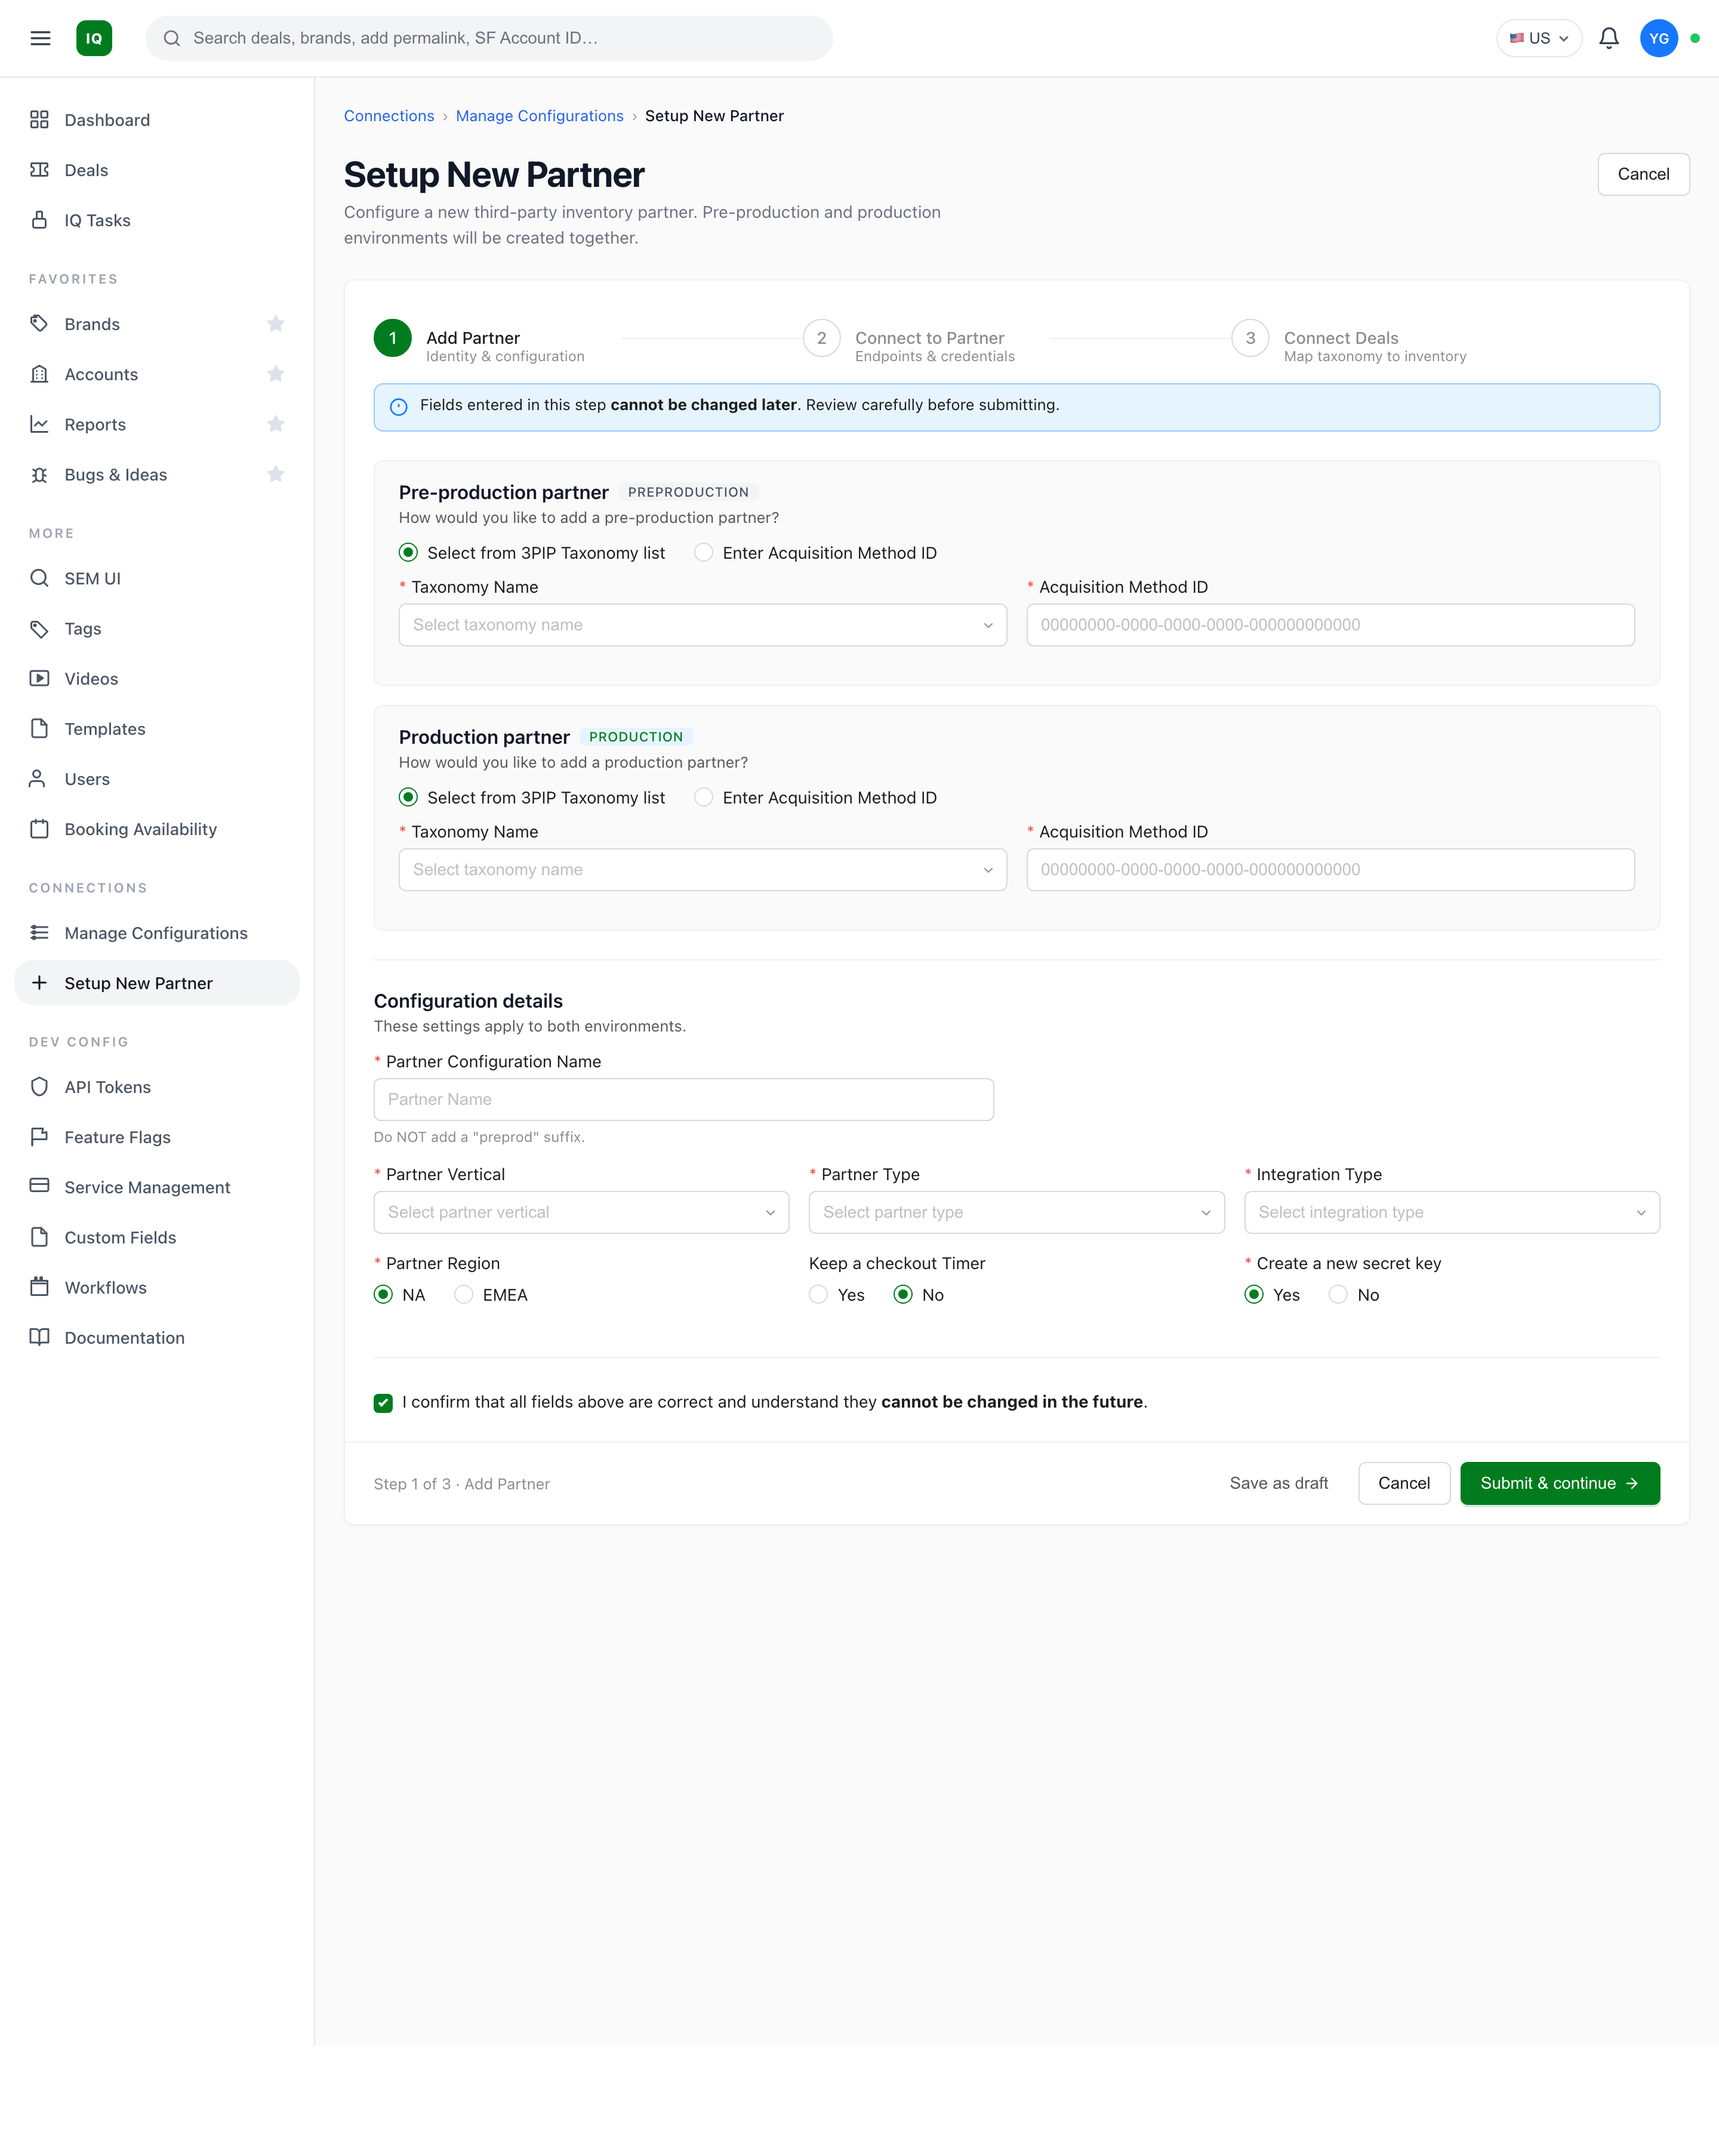
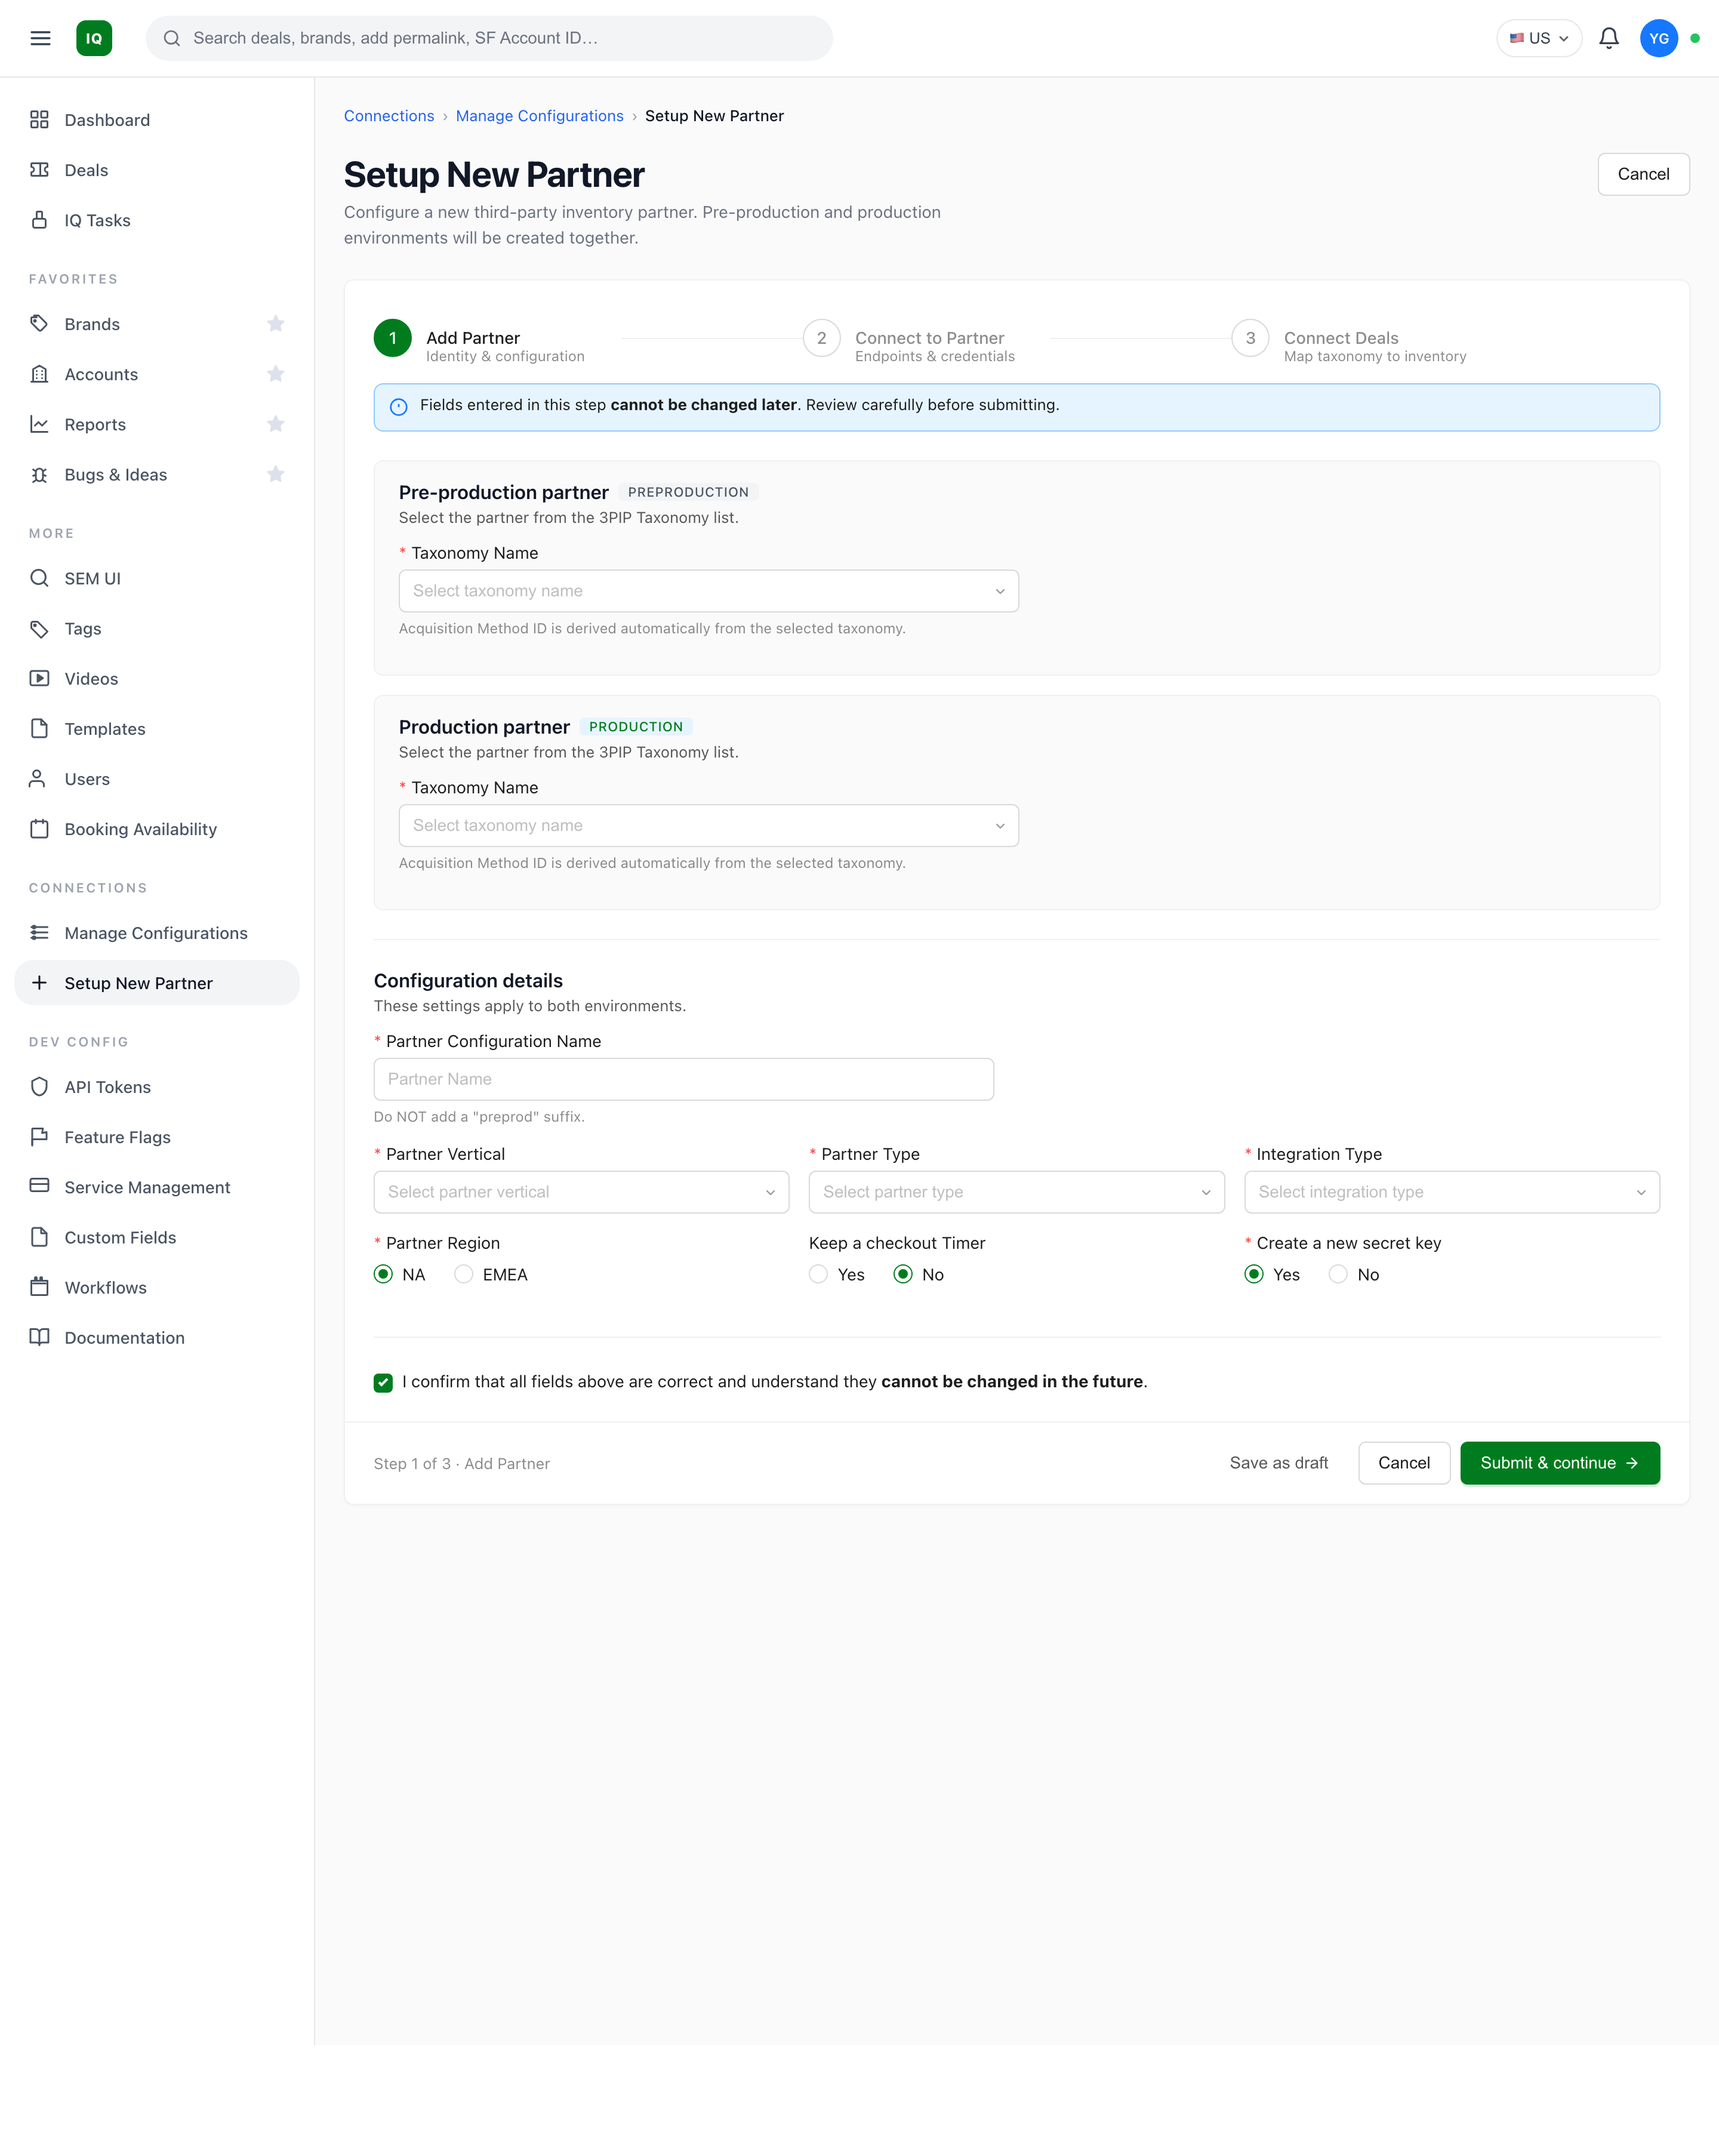
Make identity per-env via tabs; drop Acquisition Method ID radio in wizard
- Edit page: env tabs moved from inside the Connection details card up to the
  page level, so they now switch BOTH the Partner identity card and the
  Connection details card. Each env has its own Taxonomy Name, Acquisition
  Method ID, Configuration Name, etc. Identity card meta now reads
  "Production environment - set during partner creation".
- Setup wizard: removed the "Enter Acquisition Method ID" radio choice and
  its input field from both the pre-production and production blocks. Users
  now always pick from the 3PIP Taxonomy list; Acquisition Method ID is
  derived automatically from the selection.

diff --git a/iq-setup-new-partner-mockup.html b/iq-setup-new-partner-mockup.html
@@ -465,21 +465,13 @@
             <!-- ====== Pre-production block ====== -->
             <div class="env-card">
               <h3 class="form-section-title">Pre-production partner <span class="badge">preproduction</span></h3>
-              <p class="form-section-help">How would you like to add a pre-production partner?</p>
+              <p class="form-section-help">Select the partner from the 3PIP Taxonomy list.</p>
 
-              <div class="radio-group row">
-                <label class="radio checked"><span class="dot"></span> Select from 3PIP Taxonomy list</label>
-                <label class="radio"><span class="dot"></span> Enter Acquisition Method ID</label>
-              </div>
-
-              <div class="form-row" style="margin-top: 12px;">
+              <div class="form-row one" style="margin-top: 12px;">
                 <div class="field">
                   <label><span class="req">*</span>Taxonomy Name</label>
                   <select class="select placeholder"><option>Select taxonomy name</option></select>
-                </div>
-                <div class="field">
-                  <label><span class="req">*</span>Acquisition Method ID</label>
-                  <input class="input" placeholder="00000000-0000-0000-0000-000000000000" />
+                  <span class="hint">Acquisition Method ID is derived automatically from the selected taxonomy.</span>
                 </div>
               </div>
             </div>
@@ -487,21 +479,13 @@
             <!-- ====== Production block ====== -->
             <div class="env-card">
               <h3 class="form-section-title">Production partner <span class="badge prod">production</span></h3>
-              <p class="form-section-help">How would you like to add a production partner?</p>
+              <p class="form-section-help">Select the partner from the 3PIP Taxonomy list.</p>
 
-              <div class="radio-group row">
-                <label class="radio checked"><span class="dot"></span> Select from 3PIP Taxonomy list</label>
-                <label class="radio"><span class="dot"></span> Enter Acquisition Method ID</label>
-              </div>
-
-              <div class="form-row" style="margin-top: 12px;">
+              <div class="form-row one" style="margin-top: 12px;">
                 <div class="field">
                   <label><span class="req">*</span>Taxonomy Name</label>
                   <select class="select placeholder"><option>Select taxonomy name</option></select>
-                </div>
-                <div class="field">
-                  <label><span class="req">*</span>Acquisition Method ID</label>
-                  <input class="input" placeholder="00000000-0000-0000-0000-000000000000" />
+                  <span class="hint">Acquisition Method ID is derived automatically from the selected taxonomy.</span>
                 </div>
               </div>
             </div>

diff --git a/iq-edit-partner-config-mockup.html b/iq-edit-partner-config-mockup.html
@@ -161,6 +161,12 @@
     border-bottom: 1px solid var(--antd-bd-soft);
     padding: 0 16px;
   }
+  .env-tabs {
+    display: flex; align-items: stretch;
+    background: #fff; border: 1px solid var(--antd-bd-soft);
+    border-radius: 8px; padding: 0 8px;
+    box-shadow: 0 1px 2px rgba(0,0,0,0.03);
+  }
   .tab {
     padding: 14px 16px; font-size: 14px; font-weight: 500;
     color: var(--antd-text-2); cursor: pointer;
@@ -369,7 +375,7 @@
               <span class="partner">ReleafClinics</span>
             </h1>
             <p class="desc">
-              Manage configuration for both pre-production and production environments. Identity fields are shared and read-only; connection details are editable per environment.
+              Switch between pre-production and production tabs to view or edit each environment's identity and connection details.
             </p>
           </div>
           <div class="actions">
@@ -377,11 +383,23 @@
           </div>
         </div>
 
-        <!-- Read-only metadata card -->
+        <!-- Page-level env tabs (switches both identity and connection details) -->
+        <div class="env-tabs">
+          <div class="tab">
+            <span>Pre-production</span>
+            <span class="tab-status orange">Setup In Progress</span>
+          </div>
+          <div class="tab active">
+            <span>Production</span>
+            <span class="tab-status gray">Setup Not Started</span>
+          </div>
+        </div>
+
+        <!-- Read-only metadata card (per-env) -->
         <div class="card">
           <div class="card-header">
             <h3>Partner identity</h3>
-            <span class="meta">Set during partner creation · cannot be changed</span>
+            <span class="meta">Production environment · set during partner creation · cannot be changed</span>
           </div>
           <div class="card-body">
             <div class="descriptions">
@@ -422,17 +440,11 @@
           </div>
         </div>
 
-        <!-- Editable form card with env tabs -->
+        <!-- Editable form card (per-env) -->
         <div class="card">
-          <div class="card-tabs">
-            <div class="tab">
-              <span>Pre-production</span>
-              <span class="tab-status orange">Setup In Progress</span>
-            </div>
-            <div class="tab active">
-              <span>Production</span>
-              <span class="tab-status gray">Setup Not Started</span>
-            </div>
+          <div class="card-header">
+            <h3>Connection details</h3>
+            <span class="meta">Production environment</span>
           </div>
           <div class="card-body">
 
